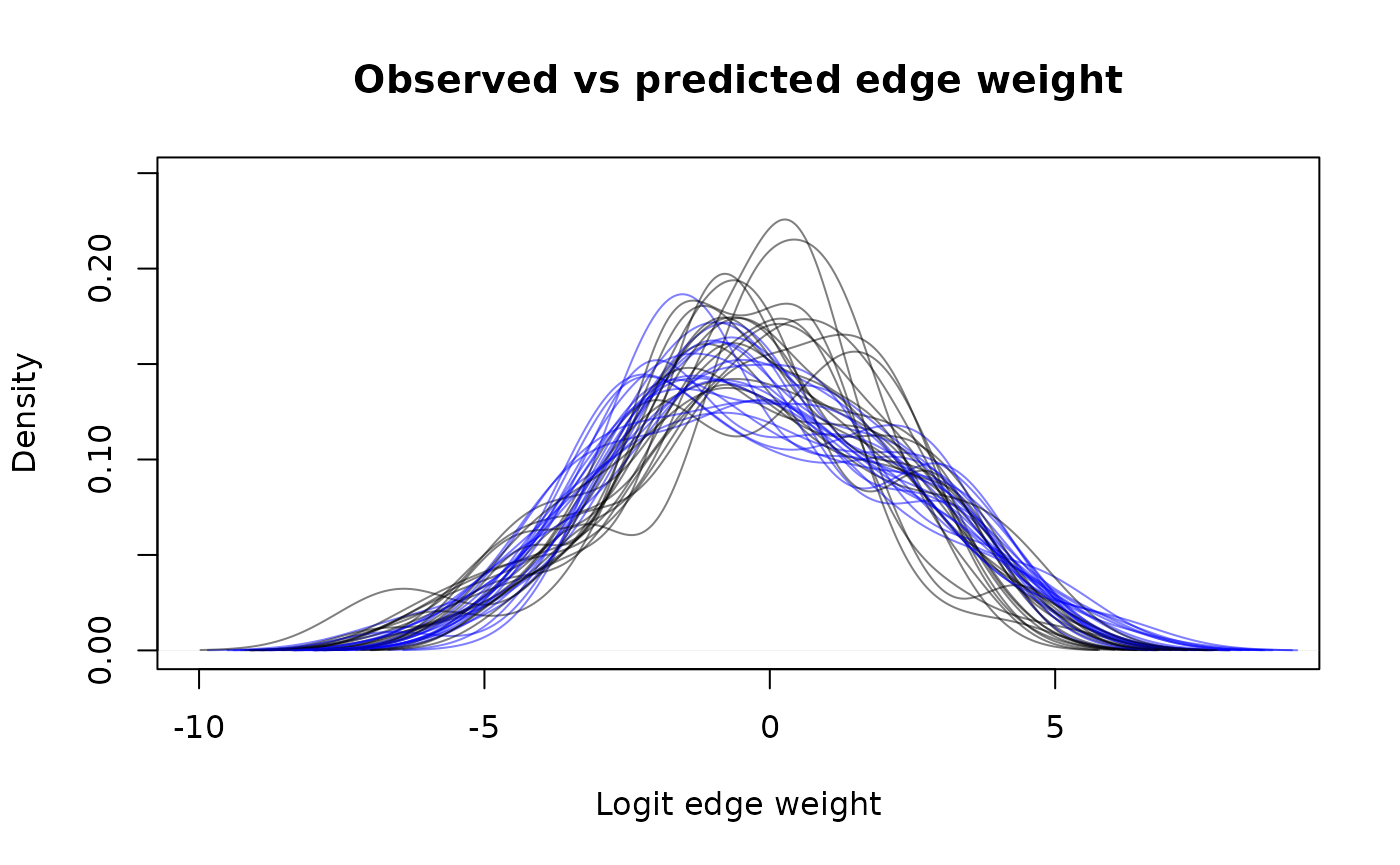
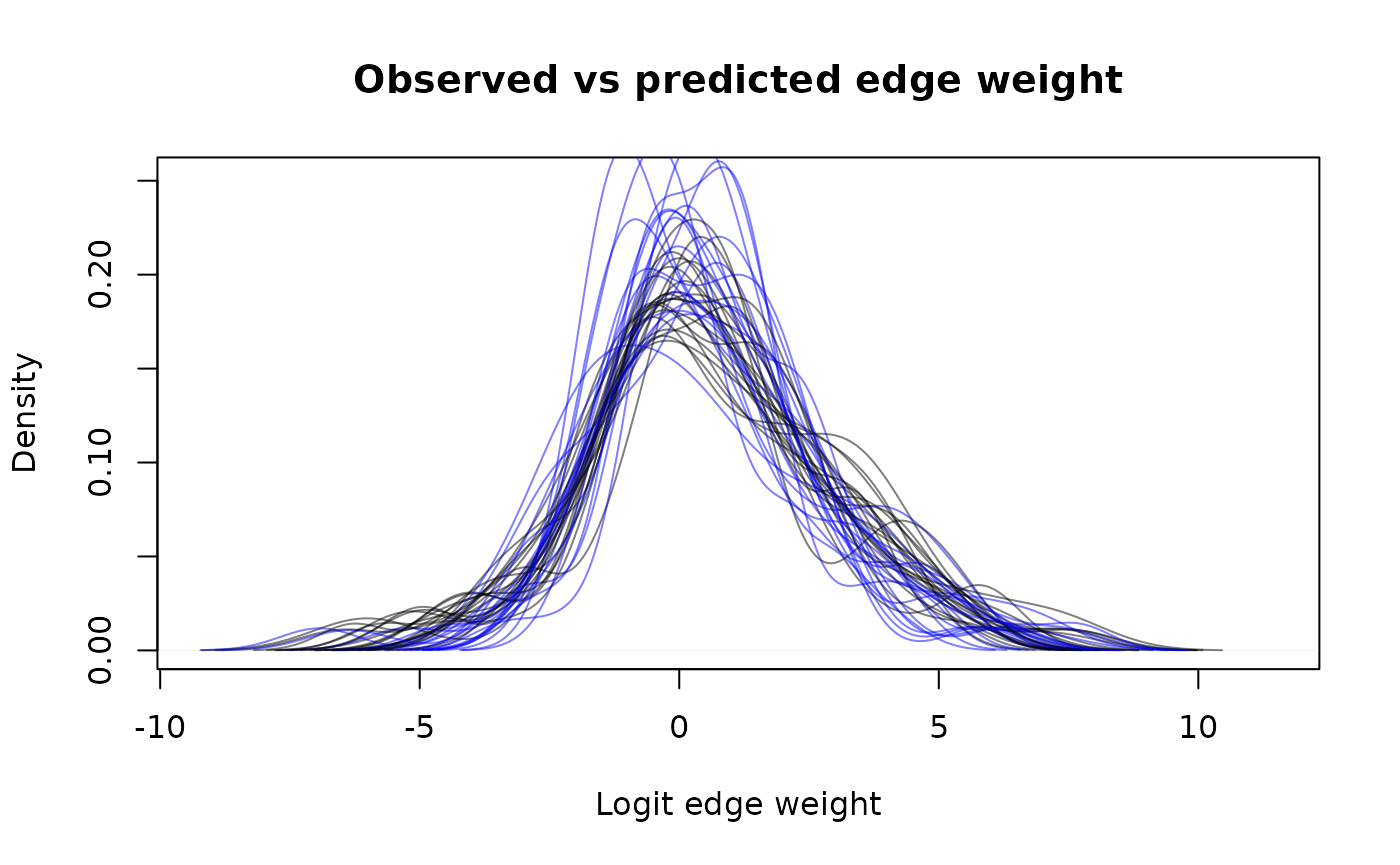
Built site for bisonR: 0.1.0@6470467

diff --git a/articles/getting_started.html b/articles/getting_started.html
@@ -123,15 +123,15 @@
 <p>We will also use the <code><a href="../reference/simulate_edge_model.html">simulate_edge_model()</a></code> function from <code>bisonR</code> to simulate some observation data. This dataframe is an example of the format that bisonR uses. Each row corresponds to an observation (such as an association within a sampling period of a dyad or a count of interactions between a dyad), but additional observation-level, dyad-level, or node-level factors can be included.</p>
 <div class="sourceCode" id="cb3"><pre class="downlit sourceCode r">
 <code class="sourceCode R"><span class="va">sim_data</span> <span class="op">&lt;-</span> <span class="fu"><a href="../reference/simulate_edge_model.html">simulate_edge_model</a></span><span class="op">(</span><span class="st">"binary"</span>, aggregated <span class="op">=</span> <span class="cn">FALSE</span><span class="op">)</span>
-<span class="va">df</span> <span class="op">&lt;-</span> <span class="va">sim_data</span>
+<span class="va">df</span> <span class="op">&lt;-</span> <span class="va">sim_data</span><span class="op">$</span><span class="va">df_sim</span>
 <span class="fu"><a href="https://rdrr.io/r/utils/head.html" class="external-link">head</a></span><span class="op">(</span><span class="va">df</span><span class="op">)</span>
 <span class="co">#&gt;   event node_1_id node_2_id  age_diff    age_1    age_2 location duration</span>
-<span class="co">#&gt; 1     0         1         2 0.6957874 20.66536 19.96957        3        1</span>
-<span class="co">#&gt; 2     0         1         2 0.6957874 20.66536 19.96957        5        1</span>
-<span class="co">#&gt; 3     0         1         2 0.6957874 20.66536 19.96957        2        1</span>
-<span class="co">#&gt; 4     0         1         2 0.6957874 20.66536 19.96957        2        1</span>
-<span class="co">#&gt; 5     0         1         2 0.6957874 20.66536 19.96957        4        1</span>
-<span class="co">#&gt; 6     0         1         2 0.6957874 20.66536 19.96957        5        1</span></code></pre></div>
+<span class="co">#&gt; 1     0         1         2 -1.886396 20.71172 22.59812        1        1</span>
+<span class="co">#&gt; 2     0         1         2 -1.886396 20.71172 22.59812        2        1</span>
+<span class="co">#&gt; 3     0         1         2 -1.886396 20.71172 22.59812        4        1</span>
+<span class="co">#&gt; 4     0         1         3 -1.449398 20.71172 22.16112        4        1</span>
+<span class="co">#&gt; 5     0         1         3 -1.449398 20.71172 22.16112        3        1</span>
+<span class="co">#&gt; 6     0         1         3 -1.449398 20.71172 22.16112        2        1</span></code></pre></div>
 </div>
 <div class="section level2">
 <h2 id="edge-models">Edge Models<a class="anchor" aria-label="anchor" href="#edge-models"></a>
@@ -142,7 +142,7 @@
 <code class="sourceCode R"><span class="va">priors</span> <span class="op">&lt;-</span> <span class="fu"><a href="../reference/get_default_priors.html">get_default_priors</a></span><span class="op">(</span><span class="st">"binary"</span><span class="op">)</span>
 <span class="va">priors</span>
 <span class="co">#&gt; $fixed</span>
-<span class="co">#&gt; [1] "normal(0, 1)"</span>
+<span class="co">#&gt; [1] "normal(0, 2.5)"</span>
 <span class="co">#&gt; </span>
 <span class="co">#&gt; $random_mean</span>
 <span class="co">#&gt; [1] "normal(0, 1)"</span>
@@ -151,10 +151,10 @@
 <span class="co">#&gt; [1] "half-normal(1)"</span></code></pre></div>
 <p>This list shows the priors set on the “fixed effect” parameters: the edge weights and any additional fixed effects included in the edge weight model; and the “random effect” parameters: any additional random effects included in the edge weight model. Imagine we decide that a normal distribution with mean zero and standard deviation 1 is not appropriate for the fixed effects, and we’d prefer a standard deviation of 2, we can change this using the following code:</p>
 <div class="sourceCode" id="cb5"><pre class="downlit sourceCode r">
-<code class="sourceCode R"><span class="va">priors</span><span class="op">$</span><span class="va">fixed</span> <span class="op">&lt;-</span> <span class="st">"normal(0, 2)"</span>
+<code class="sourceCode R"><span class="va">priors</span><span class="op">$</span><span class="va">fixed</span> <span class="op">&lt;-</span> <span class="st">"normal(0, 2.5)"</span>
 <span class="va">priors</span>
 <span class="co">#&gt; $fixed</span>
-<span class="co">#&gt; [1] "normal(0, 2)"</span>
+<span class="co">#&gt; [1] "normal(0, 2.5)"</span>
 <span class="co">#&gt; </span>
 <span class="co">#&gt; $random_mean</span>
 <span class="co">#&gt; [1] "normal(0, 1)"</span>
@@ -165,17 +165,22 @@
 <p>In bisonR, the left hand side of the <code>~</code> describes the sampling data, and uses the <code>(event | duration)</code> notation. In this notation, <code>event</code> corresponds to the name of the column in the dataframe that represents the measure of social events, such as 1 and 0 in the binary model, or frequencies 0, 1, 2, … in the count model. If using an unaggregated dataframe, the <code>duration</code> corresponds to the durations of each observation. In our case this is fixed, but this will depend on the data at hand.</p>
 <p>The right hand side of the <code>~</code> describes the predictors that are associated with social events. In the standard BISoN model this is primarily the edge weight that we use to build the network, but this can also include additional effects such as age, sex, or even observation-level factors such as location, time of day, or weather, to name a few. Including additional effects will change the interpretation of edge weights, but could be useful if interested in the social network once some factors have been controlled for. <em>Note</em> the edge weights don’t need to be included, and you could use bisonR to estimate generative effects in a network. In this example we’ll keep things simple and just use edge weight as the only predictor. This is done using the <code>dyad(node_1_id, node_2_id)</code> notation. <code>node_1_id</code> and <code>node_2_id</code> represent the nodes corresponding to each individual in the network, and need to be stored as factors in the dataframe. They don’t need to be IDs, and could be individual names, as long as they’re stored as factors. Now we understand the basics of the formula notation, we can now fit the edge weight model:</p>
 <div class="sourceCode" id="cb6"><pre class="downlit sourceCode r">
-<code class="sourceCode R"><span class="va">fit_edge</span> <span class="op">&lt;-</span> <span class="fu"><a href="../reference/edge_model.html">edge_model</a></span><span class="op">(</span><span class="op">(</span><span class="va">event</span> <span class="op">|</span> <span class="va">duration</span><span class="op">)</span> <span class="op">~</span> <span class="fu">dyad</span><span class="op">(</span><span class="va">node_1_id</span>, <span class="va">node_2_id</span><span class="op">)</span>, data<span class="op">=</span><span class="va">df</span>, data_type<span class="op">=</span><span class="st">"binary"</span>, priors<span class="op">=</span><span class="va">priors</span><span class="op">)</span>
+<code class="sourceCode R"><span class="va">fit_edge</span> <span class="op">&lt;-</span> <span class="fu"><a href="../reference/edge_model.html">edge_model</a></span><span class="op">(</span>
+  <span class="op">(</span><span class="va">event</span> <span class="op">|</span> <span class="va">duration</span><span class="op">)</span> <span class="op">~</span> <span class="fu">dyad</span><span class="op">(</span><span class="va">node_1_id</span>, <span class="va">node_2_id</span><span class="op">)</span>, 
+  data<span class="op">=</span><span class="va">df</span>, 
+  data_type<span class="op">=</span><span class="st">"binary"</span>, 
+  priors<span class="op">=</span><span class="va">priors</span>
+<span class="op">)</span>
 <span class="co">#&gt; Running MCMC with 4 parallel chains...</span>
 <span class="co">#&gt; </span>
-<span class="co">#&gt; Chain 1 finished in 2.5 seconds.</span>
-<span class="co">#&gt; Chain 3 finished in 2.5 seconds.</span>
-<span class="co">#&gt; Chain 4 finished in 2.4 seconds.</span>
-<span class="co">#&gt; Chain 2 finished in 2.6 seconds.</span>
+<span class="co">#&gt; Chain 1 finished in 2.2 seconds.</span>
+<span class="co">#&gt; Chain 2 finished in 2.2 seconds.</span>
+<span class="co">#&gt; Chain 3 finished in 2.2 seconds.</span>
+<span class="co">#&gt; Chain 4 finished in 2.2 seconds.</span>
 <span class="co">#&gt; </span>
 <span class="co">#&gt; All 4 chains finished successfully.</span>
-<span class="co">#&gt; Mean chain execution time: 2.5 seconds.</span>
-<span class="co">#&gt; Total execution time: 2.8 seconds.</span></code></pre></div>
+<span class="co">#&gt; Mean chain execution time: 2.2 seconds.</span>
+<span class="co">#&gt; Total execution time: 2.4 seconds.</span></code></pre></div>
 <p>Depending on your dataset this can take anywhere between a few tenths of a second and several hours. In particular if you have a large dataset and no observation-level predictors, it’s probably a good idea to use the aggregated version of the model where all observations per dyad are collapsed to a single row. This will speed up model fitting considerably.</p>
 <p>Once the model has fitted, we need to check that the MCMC algorithm has behaved correctly. Usually if there’s a major problem, the <code><a href="../reference/edge_model.html">edge_model()</a></code> function itself will have triggered warning messages above. But even if everything is silent, it’s still worth checking the traceplots to check the MCMC chains have converged. The chains should be well-mixed and look something like a fuzzy caterpillar. We can check for this using the <code><a href="../reference/plot_trace.html">plot_trace()</a></code> function:</p>
 <div class="sourceCode" id="cb7"><pre class="downlit sourceCode r">
@@ -196,51 +201,51 @@
 <span class="co">#&gt; Directed: FALSE</span>
 <span class="co">#&gt; === Edge list summary ===</span>
 <span class="co">#&gt;          median     5%    95%</span>
-<span class="co">#&gt; 1 &lt;-&gt; 2  -1.989 -3.567 -0.805</span>
-<span class="co">#&gt; 1 &lt;-&gt; 3   2.051  1.058  3.372</span>
-<span class="co">#&gt; 2 &lt;-&gt; 3   1.664 -0.432  4.209</span>
-<span class="co">#&gt; 1 &lt;-&gt; 4  -2.171 -3.810 -0.954</span>
-<span class="co">#&gt; 2 &lt;-&gt; 4  -1.185 -3.804  1.225</span>
-<span class="co">#&gt; 3 &lt;-&gt; 4  -2.849 -5.045 -1.283</span>
-<span class="co">#&gt; 1 &lt;-&gt; 5   1.037 -0.157  2.371</span>
-<span class="co">#&gt; 2 &lt;-&gt; 5  -1.654 -4.223  0.348</span>
-<span class="co">#&gt; 3 &lt;-&gt; 5   0.022 -1.596  1.672</span>
-<span class="co">#&gt; 4 &lt;-&gt; 5   3.321  1.934  5.365</span>
-<span class="co">#&gt; 1 &lt;-&gt; 6  -2.377 -4.809 -0.576</span>
-<span class="co">#&gt; 2 &lt;-&gt; 6  -2.788 -4.976 -1.177</span>
-<span class="co">#&gt; 3 &lt;-&gt; 6  -1.124 -3.940  1.337</span>
-<span class="co">#&gt; 4 &lt;-&gt; 6  -1.635 -4.145  0.459</span>
-<span class="co">#&gt; 5 &lt;-&gt; 6  -3.212 -5.200 -1.672</span>
-<span class="co">#&gt; 1 &lt;-&gt; 7  -3.169 -5.324 -1.560</span>
-<span class="co">#&gt; 2 &lt;-&gt; 7  -2.469 -4.769 -0.801</span>
-<span class="co">#&gt; 3 &lt;-&gt; 7  -3.151 -5.198 -1.734</span>
-<span class="co">#&gt; 4 &lt;-&gt; 7  -1.198 -2.143 -0.364</span>
-<span class="co">#&gt; 5 &lt;-&gt; 7  -3.383 -5.396 -1.886</span>
-<span class="co">#&gt; 6 &lt;-&gt; 7  -0.563 -1.630  0.472</span>
-<span class="co">#&gt; 1 &lt;-&gt; 8   1.810  0.554  3.338</span>
-<span class="co">#&gt; 2 &lt;-&gt; 8   1.819  0.464  3.627</span>
-<span class="co">#&gt; 3 &lt;-&gt; 8  -1.805 -3.425 -0.528</span>
-<span class="co">#&gt; 4 &lt;-&gt; 8   0.397 -0.992  1.866</span>
-<span class="co">#&gt; 5 &lt;-&gt; 8  -1.786 -3.049 -0.805</span>
-<span class="co">#&gt; 6 &lt;-&gt; 8   3.221  1.772  5.287</span>
-<span class="co">#&gt; 7 &lt;-&gt; 8   2.845  1.289  5.023</span>
-<span class="co">#&gt; 1 &lt;-&gt; 9  -0.128 -0.982  0.717</span>
-<span class="co">#&gt; 2 &lt;-&gt; 9   0.466 -0.693  1.687</span>
-<span class="co">#&gt; 3 &lt;-&gt; 9  -2.103 -3.688 -0.898</span>
-<span class="co">#&gt; 4 &lt;-&gt; 9   2.560  1.437  4.054</span>
-<span class="co">#&gt; 5 &lt;-&gt; 9  -0.221 -1.302  0.851</span>
-<span class="co">#&gt; 6 &lt;-&gt; 9   3.270  1.793  5.253</span>
-<span class="co">#&gt; 7 &lt;-&gt; 9   2.817  1.243  4.989</span>
-<span class="co">#&gt; 8 &lt;-&gt; 9  -0.756 -1.642  0.057</span>
-<span class="co">#&gt; 1 &lt;-&gt; 10  0.779 -0.029  1.607</span>
-<span class="co">#&gt; 2 &lt;-&gt; 10  0.677 -0.186  1.627</span>
-<span class="co">#&gt; 3 &lt;-&gt; 10 -0.530 -1.363  0.229</span>
-<span class="co">#&gt; 4 &lt;-&gt; 10  2.826  1.237  4.992</span>
-<span class="co">#&gt; 5 &lt;-&gt; 10 -1.668 -2.728 -0.793</span>
-<span class="co">#&gt; 6 &lt;-&gt; 10  3.336  1.851  5.316</span>
-<span class="co">#&gt; 7 &lt;-&gt; 10  3.220  1.755  5.352</span>
-<span class="co">#&gt; 8 &lt;-&gt; 10 -0.646 -1.828  0.429</span>
-<span class="co">#&gt; 9 &lt;-&gt; 10 -1.657 -4.259  0.504</span></code></pre></div>
+<span class="co">#&gt; 1 &lt;-&gt; 2  -2.397 -5.439 -0.208</span>
+<span class="co">#&gt; 1 &lt;-&gt; 3  -2.155 -3.454 -1.126</span>
+<span class="co">#&gt; 2 &lt;-&gt; 3  -0.703 -1.761  0.299</span>
+<span class="co">#&gt; 1 &lt;-&gt; 4   1.091  0.183  2.126</span>
+<span class="co">#&gt; 2 &lt;-&gt; 4   1.589 -1.391  5.012</span>
+<span class="co">#&gt; 3 &lt;-&gt; 4   2.116 -0.299  5.180</span>
+<span class="co">#&gt; 1 &lt;-&gt; 5  -1.297 -3.186  0.251</span>
+<span class="co">#&gt; 2 &lt;-&gt; 5  -0.770 -1.727  0.105</span>
+<span class="co">#&gt; 3 &lt;-&gt; 5  -0.669 -2.130  0.649</span>
+<span class="co">#&gt; 4 &lt;-&gt; 5  -0.220 -1.335  0.890</span>
+<span class="co">#&gt; 1 &lt;-&gt; 6   0.630 -1.218  2.703</span>
+<span class="co">#&gt; 2 &lt;-&gt; 6   2.424  0.203  5.518</span>
+<span class="co">#&gt; 3 &lt;-&gt; 6   2.606  0.558  5.657</span>
+<span class="co">#&gt; 4 &lt;-&gt; 6  -0.781 -1.699  0.067</span>
+<span class="co">#&gt; 5 &lt;-&gt; 6   3.855  2.102  6.439</span>
+<span class="co">#&gt; 1 &lt;-&gt; 7  -1.566 -2.849 -0.493</span>
+<span class="co">#&gt; 2 &lt;-&gt; 7   0.287 -0.934  1.532</span>
+<span class="co">#&gt; 3 &lt;-&gt; 7  -0.910 -1.977 -0.019</span>
+<span class="co">#&gt; 4 &lt;-&gt; 7   1.104  0.316  1.955</span>
+<span class="co">#&gt; 5 &lt;-&gt; 7   1.306 -0.245  3.260</span>
+<span class="co">#&gt; 6 &lt;-&gt; 7  -0.408 -1.496  0.621</span>
+<span class="co">#&gt; 1 &lt;-&gt; 8  -3.867 -6.343 -2.130</span>
+<span class="co">#&gt; 2 &lt;-&gt; 8   0.409 -0.649  1.543</span>
+<span class="co">#&gt; 3 &lt;-&gt; 8   0.000 -1.644  1.640</span>
+<span class="co">#&gt; 4 &lt;-&gt; 8  -1.084 -2.025 -0.280</span>
+<span class="co">#&gt; 5 &lt;-&gt; 8   3.470  1.666  6.086</span>
+<span class="co">#&gt; 6 &lt;-&gt; 8   1.220  0.044  2.654</span>
+<span class="co">#&gt; 7 &lt;-&gt; 8  -2.371 -5.342 -0.166</span>
+<span class="co">#&gt; 1 &lt;-&gt; 9   3.645  1.846  6.276</span>
+<span class="co">#&gt; 2 &lt;-&gt; 9   2.744  1.542  4.479</span>
+<span class="co">#&gt; 3 &lt;-&gt; 9   3.657  1.908  6.244</span>
+<span class="co">#&gt; 4 &lt;-&gt; 9   3.384  1.563  6.145</span>
+<span class="co">#&gt; 5 &lt;-&gt; 9   3.378  1.621  6.021</span>
+<span class="co">#&gt; 6 &lt;-&gt; 9   1.532 -1.317  4.966</span>
+<span class="co">#&gt; 7 &lt;-&gt; 9  -0.010 -1.666  1.760</span>
+<span class="co">#&gt; 8 &lt;-&gt; 9   1.558 -1.180  4.780</span>
+<span class="co">#&gt; 1 &lt;-&gt; 10  0.403 -0.351  1.157</span>
+<span class="co">#&gt; 2 &lt;-&gt; 10  0.206 -0.537  0.953</span>
+<span class="co">#&gt; 3 &lt;-&gt; 10  1.432  0.515  2.546</span>
+<span class="co">#&gt; 4 &lt;-&gt; 10 -0.194 -0.923  0.540</span>
+<span class="co">#&gt; 5 &lt;-&gt; 10  1.745  0.660  3.126</span>
+<span class="co">#&gt; 6 &lt;-&gt; 10  0.901 -0.401  2.384</span>
+<span class="co">#&gt; 7 &lt;-&gt; 10 -0.589 -1.549  0.285</span>
+<span class="co">#&gt; 8 &lt;-&gt; 10  2.604  0.470  5.549</span>
+<span class="co">#&gt; 9 &lt;-&gt; 10 -2.453 -4.241 -1.212</span></code></pre></div>
 <p>It can be hard to get an intuitive idea for what’s going on looking only at a summary table, so this is where it can be useful to visualise the network too. The <code><a href="../reference/plot_network.html">plot_network()</a></code> function does this for BISoN edge weight models, where uncertainty is shown on edge weights. Uncertainty is visualised by showing the lower and upper bounds as overlapping edges in the network.</p>
 <div class="sourceCode" id="cb10"><pre class="downlit sourceCode r">
 <code class="sourceCode R"><span class="fu"><a href="../reference/plot_network.html">plot_network</a></span><span class="op">(</span><span class="va">fit_edge</span>, lwd<span class="op">=</span><span class="fl">5</span><span class="op">)</span></code></pre></div>
@@ -253,7 +258,7 @@
 <p>Dyadic regression is where dyadic network properties (usually edge weight) are regressed against dyad-level properties. In our case we’ll be regressing edge weight against difference in age, to test the hypothesis that differences in age drive social connections. Just like edge weight models, we need to set priors, and this can be done in much the same way as last time:</p>
 <div class="sourceCode" id="cb11"><pre class="downlit sourceCode r">
 <code class="sourceCode R"><span class="va">priors</span> <span class="op">&lt;-</span> <span class="fu"><a href="../reference/get_default_priors.html">get_default_priors</a></span><span class="op">(</span><span class="st">"dyadic_regression"</span><span class="op">)</span>
-<span class="va">priors</span><span class="op">$</span><span class="va">fixed</span> <span class="op">&lt;-</span> <span class="st">"normal(0, 2.5)"</span>
+<span class="va">priors</span><span class="op">$</span><span class="va">error</span> <span class="op">&lt;-</span> <span class="st">"half-normal(2.5)"</span>
 <span class="va">priors</span>
 <span class="co">#&gt; $fixed</span>
 <span class="co">#&gt; [1] "normal(0, 2.5)"</span>
@@ -268,7 +273,7 @@
 <span class="co">#&gt; [1] "half-normal(1)"</span>
 <span class="co">#&gt; </span>
 <span class="co">#&gt; $error</span>
-<span class="co">#&gt; [1] "half-normal(1)"</span></code></pre></div>
+<span class="co">#&gt; [1] "half-normal(2.5)"</span></code></pre></div>
 <p>The dataframe for a dyadic regression will be different to the one used to fit an edge weight model. In this case we need a row for each dyad, and we need to index this using the same factor-typed node variables with the same levels as were used when fitting the edge weight model. In our example we have all the necessary data in the original dataframe, and we can extract it using dplyr. The <code><a href="../reference/dyadic_regression.html">dyadic_regression()</a></code> function uses a similar formula syntax as the <code>edge_model</code> function. In our example we use the edge weight, described by <code>dyad(node_1_id, node_2_id)</code>, on the left hand side as the response variable. We use the <code>age_diff</code> variable from the dataframe as the single fixed effect, but additional fixed and random effects can also be included. <em>Note</em> by default the dyadic regression function uses multi-membership effects, denoted by the argument <code>mm</code>, to capture non-independence due to nodes in the regression. This is a vital feature for some analyses to prevent spurious conclusions, but for the sake of our simulated data we don’t need to include this effect here.</p>
 <div class="sourceCode" id="cb12"><pre class="downlit sourceCode r">
 <code class="sourceCode R"><span class="va">df_dyadic</span> <span class="op">&lt;-</span> <span class="va">df</span> <span class="op"><a href="https://magrittr.tidyverse.org/reference/pipe.html" class="external-link">%&gt;%</a></span>
@@ -293,22 +298,22 @@
 <span class="co">#&gt; Chain 3 Iteration: 1001 / 2000 [ 50%]  (Sampling) </span>
 <span class="co">#&gt; Chain 4 Iteration: 1000 / 2000 [ 50%]  (Warmup) </span>
 <span class="co">#&gt; Chain 4 Iteration: 1001 / 2000 [ 50%]  (Sampling) </span>
-<span class="co">#&gt; Chain 1 Iteration: 1500 / 2000 [ 75%]  (Sampling) </span>
-<span class="co">#&gt; Chain 3 Iteration: 1500 / 2000 [ 75%]  (Sampling) </span>
-<span class="co">#&gt; Chain 2 Iteration: 1500 / 2000 [ 75%]  (Sampling) </span>
 <span class="co">#&gt; Chain 4 Iteration: 1500 / 2000 [ 75%]  (Sampling) </span>
+<span class="co">#&gt; Chain 1 Iteration: 1500 / 2000 [ 75%]  (Sampling) </span>
+<span class="co">#&gt; Chain 2 Iteration: 1500 / 2000 [ 75%]  (Sampling) </span>
+<span class="co">#&gt; Chain 3 Iteration: 1500 / 2000 [ 75%]  (Sampling) </span>
 <span class="co">#&gt; Chain 1 Iteration: 2000 / 2000 [100%]  (Sampling) </span>
-<span class="co">#&gt; Chain 1 finished in 3.0 seconds.</span>
 <span class="co">#&gt; Chain 4 Iteration: 2000 / 2000 [100%]  (Sampling) </span>
-<span class="co">#&gt; Chain 4 finished in 3.1 seconds.</span>
+<span class="co">#&gt; Chain 1 finished in 2.4 seconds.</span>
+<span class="co">#&gt; Chain 4 finished in 2.3 seconds.</span>
 <span class="co">#&gt; Chain 2 Iteration: 2000 / 2000 [100%]  (Sampling) </span>
+<span class="co">#&gt; Chain 2 finished in 2.5 seconds.</span>
 <span class="co">#&gt; Chain 3 Iteration: 2000 / 2000 [100%]  (Sampling) </span>
-<span class="co">#&gt; Chain 2 finished in 3.3 seconds.</span>
-<span class="co">#&gt; Chain 3 finished in 3.2 seconds.</span>
+<span class="co">#&gt; Chain 3 finished in 2.5 seconds.</span>
 <span class="co">#&gt; </span>
 <span class="co">#&gt; All 4 chains finished successfully.</span>
-<span class="co">#&gt; Mean chain execution time: 3.1 seconds.</span>
-<span class="co">#&gt; Total execution time: 3.3 seconds.</span></code></pre></div>
+<span class="co">#&gt; Mean chain execution time: 2.5 seconds.</span>
+<span class="co">#&gt; Total execution time: 2.7 seconds.</span></code></pre></div>
 <p>Like last time we want to check that our model has fit properly and makes good predictions. This can be done in exactly the same way as last time:</p>
 <div class="sourceCode" id="cb13"><pre class="downlit sourceCode r">
 <code class="sourceCode R"><span class="fu"><a href="../reference/plot_trace.html">plot_trace</a></span><span class="op">(</span><span class="va">fit_dyadic</span><span class="op">)</span></code></pre></div>
@@ -320,18 +325,12 @@
 <div class="sourceCode" id="cb15"><pre class="downlit sourceCode r">
 <code class="sourceCode R"><span class="fu"><a href="https://mc-stan.org/cmdstanr/reference/fit-method-summary.html" class="external-link">summary</a></span><span class="op">(</span><span class="va">fit_dyadic</span><span class="op">)</span>
 <span class="co">#&gt; === Fitted dyadic regression model ===</span>
-<span class="co">#&gt; Formula: ~</span>
-<span class="co">#&gt; Number of dyads: 45</span>
-<span class="co">#&gt; === Coefficient summary === === Fitted dyadic regression model ===</span>
-<span class="co">#&gt; Formula: dyad(node_1_id, node_2_id)</span>
-<span class="co">#&gt; Number of dyads: 45</span>
-<span class="co">#&gt; === Coefficient summary === === Fitted dyadic regression model ===</span>
-<span class="co">#&gt; Formula: age_diff</span>
+<span class="co">#&gt; Formula: dyad(node_1_id, node_2_id) ~ age_diff</span>
 <span class="co">#&gt; Number of dyads: 45</span>
 <span class="co">#&gt; === Coefficient summary ===                </span>
-<span class="co">#&gt; variable            50%     5%    95%</span>
-<span class="co">#&gt;   intercept      -0.270 -0.502 -0.036</span>
-<span class="co">#&gt;   fixed_age_diff  0.551  0.480  0.627</span></code></pre></div>
+<span class="co">#&gt; variable           50%     5%   95%</span>
+<span class="co">#&gt;   intercept      0.260 -0.076 0.599</span>
+<span class="co">#&gt;   fixed_age_diff 0.606  0.434 0.788</span></code></pre></div>
 <p>Now we’ve seen how to fit a dyadic regression, the next common type of analysis is nodal regression.</p>
 </div>
 <div class="section level2">
@@ -347,20 +346,20 @@
   <span class="fu"><a href="https://dplyr.tidyverse.org/reference/distinct.html" class="external-link">distinct</a></span><span class="op">(</span><span class="va">node_id</span>, <span class="va">age</span><span class="op">)</span>
 <span class="va">df_nodal</span>
 <span class="co">#&gt;    node_id      age</span>
-<span class="co">#&gt; 1        1 20.66536</span>
-<span class="co">#&gt; 2        2 19.96957</span>
-<span class="co">#&gt; 3        3 17.54983</span>
-<span class="co">#&gt; 4        4 22.37322</span>
-<span class="co">#&gt; 5        5 17.40647</span>
-<span class="co">#&gt; 6        6 23.98468</span>
-<span class="co">#&gt; 7        7 24.76948</span>
-<span class="co">#&gt; 8        8 18.66151</span>
-<span class="co">#&gt; 9        9 18.99383</span>
-<span class="co">#&gt; 10      10 18.98685</span></code></pre></div>
+<span class="co">#&gt; 1        1 20.71172</span>
+<span class="co">#&gt; 2        2 22.59812</span>
+<span class="co">#&gt; 3        3 22.16112</span>
+<span class="co">#&gt; 4        4 21.56508</span>
+<span class="co">#&gt; 5        5 22.95824</span>
+<span class="co">#&gt; 6        6 21.53649</span>
+<span class="co">#&gt; 7        7 22.03434</span>
+<span class="co">#&gt; 8        8 22.57527</span>
+<span class="co">#&gt; 9        9 17.58951</span>
+<span class="co">#&gt; 10      10 21.91957</span></code></pre></div>
 <p>Priors can be set in the exact same way as for the <code><a href="../reference/dyadic_regression.html">dyadic_regression()</a></code> function:</p>
 <div class="sourceCode" id="cb17"><pre class="downlit sourceCode r">
 <code class="sourceCode R"><span class="va">priors</span> <span class="op">&lt;-</span> <span class="fu"><a href="../reference/get_default_priors.html">get_default_priors</a></span><span class="op">(</span><span class="st">"nodal_regression"</span><span class="op">)</span>
-<span class="va">priors</span><span class="op">$</span><span class="va">fixed</span> <span class="op">&lt;-</span> <span class="st">"normal(0, 2.5)"</span>
+<span class="va">priors</span><span class="op">$</span><span class="va">error</span> <span class="op">&lt;-</span> <span class="st">"half-normal(2.5)"</span>
 <span class="va">priors</span>
 <span class="co">#&gt; $fixed</span>
 <span class="co">#&gt; [1] "normal(0, 2.5)"</span>
@@ -372,49 +371,61 @@
 <span class="co">#&gt; [1] "half-normal(1)"</span>
 <span class="co">#&gt; </span>
 <span class="co">#&gt; $error</span>
-<span class="co">#&gt; [1] "half-normal(1)"</span></code></pre></div>
+<span class="co">#&gt; [1] "half-normal(2.5)"</span></code></pre></div>
 <p>The formula syntax for nodal regression is very similar to that of the dyadic regression, but because this analysis is at the level of the node, not the dyad, we no longer need a <code>dyad(node_1_id, node_2_id)</code> term. Instead we want to use a node-level network metric to characterise node positions within the network, while maintaining uncertainty from the edge weights. <code>bisonR</code> can handle all of this automatically, you simply need to specify a network metric to use. In our case we’ll use the classic measure of centrality <code><a href="https://rdrr.io/pkg/igraph/man/strength.html" class="external-link">strength()</a></code>, but many others are available. See the documentation here for further details.</p>
 <div class="sourceCode" id="cb18"><pre class="downlit sourceCode r">
 <code class="sourceCode R"><span class="va">fit_nodal</span> <span class="op">&lt;-</span> <span class="fu"><a href="../reference/nodal_regression.html">nodal_regression</a></span><span class="op">(</span><span class="fu"><a href="https://rdrr.io/pkg/igraph/man/strength.html" class="external-link">strength</a></span><span class="op">(</span><span class="va">node_id</span><span class="op">)</span> <span class="op">~</span> <span class="va">age</span>, <span class="va">fit_edge</span>, <span class="va">df_nodal</span>, priors<span class="op">=</span><span class="va">priors</span><span class="op">)</span>
 <span class="co">#&gt; Running MCMC with 4 parallel chains...</span>
 <span class="co">#&gt; </span>
-<span class="co">#&gt; Chain 1 Iteration:    1 / 2000 [  0%]  (Warmup)</span>
-<span class="co">#&gt; Chain 1 Informational Message: The current Metropolis proposal is about to be rejected because of the following issue:</span>
-<span class="co">#&gt; Chain 1 Exception: multi_normal_lpdf: LDLT_Factor of covariance parameter is not positive definite.  last conditional variance is -nan. (in '/tmp/RtmpahHcqS/model-41cc68c62e8a.stan', line 34, column 2 to column 94)</span>
-<span class="co">#&gt; Chain 1 If this warning occurs sporadically, such as for highly constrained variable types like covariance matrices, then the sampler is fine,</span>
-<span class="co">#&gt; Chain 1 but if this warning occurs often then your model may be either severely ill-conditioned or misspecified.</span>
-<span class="co">#&gt; Chain 1</span>
-<span class="co">#&gt; Chain 2 Iteration:    1 / 2000 [  0%]  (Warmup) </span>
-<span class="co">#&gt; Chain 3 Iteration:    1 / 2000 [  0%]  (Warmup) </span>
+<span class="co">#&gt; Chain 1 Iteration:    1 / 2000 [  0%]  (Warmup) </span>
+<span class="co">#&gt; Chain 2 Iteration:    1 / 2000 [  0%]  (Warmup)</span>
+<span class="co">#&gt; Chain 2 Informational Message: The current Metropolis proposal is about to be rejected because of the following issue:</span>
+<span class="co">#&gt; Chain 2 Exception: multi_normal_lpdf: LDLT_Factor of covariance parameter is not positive definite.  last conditional variance is -9.71445e-17. (in '/tmp/RtmphQAGqX/model-412f4cf6d5ac.stan', line 34, column 2 to column 94)</span>
+<span class="co">#&gt; Chain 2 If this warning occurs sporadically, such as for highly constrained variable types like covariance matrices, then the sampler is fine,</span>
+<span class="co">#&gt; Chain 2 but if this warning occurs often then your model may be either severely ill-conditioned or misspecified.</span>
+<span class="co">#&gt; Chain 2</span>
+<span class="co">#&gt; Chain 2 Informational Message: The current Metropolis proposal is about to be rejected because of the following issue:</span>
+<span class="co">#&gt; Chain 2 Exception: multi_normal_lpdf: LDLT_Factor of covariance parameter is not positive definite.  last conditional variance is -9.71445e-17. (in '/tmp/RtmphQAGqX/model-412f4cf6d5ac.stan', line 34, column 2 to column 94)</span>
+<span class="co">#&gt; Chain 2 If this warning occurs sporadically, such as for highly constrained variable types like covariance matrices, then the sampler is fine,</span>
+<span class="co">#&gt; Chain 2 but if this warning occurs often then your model may be either severely ill-conditioned or misspecified.</span>
+<span class="co">#&gt; Chain 2</span>
+<span class="co">#&gt; Chain 3 Iteration:    1 / 2000 [  0%]  (Warmup)</span>
+<span class="co">#&gt; Chain 3 Informational Message: The current Metropolis proposal is about to be rejected because of the following issue:</span>
+<span class="co">#&gt; Chain 3 Exception: multi_normal_lpdf: LDLT_Factor of covariance parameter is not positive definite.  last conditional variance is -nan. (in '/tmp/RtmphQAGqX/model-412f4cf6d5ac.stan', line 34, column 2 to column 94)</span>
+<span class="co">#&gt; Chain 3 If this warning occurs sporadically, such as for highly constrained variable types like covariance matrices, then the sampler is fine,</span>
+<span class="co">#&gt; Chain 3 but if this warning occurs often then your model may be either severely ill-conditioned or misspecified.</span>
+<span class="co">#&gt; Chain 3</span>
 <span class="co">#&gt; Chain 4 Iteration:    1 / 2000 [  0%]  (Warmup) </span>
 <span class="co">#&gt; Chain 1 Iteration:  500 / 2000 [ 25%]  (Warmup) </span>
 <span class="co">#&gt; Chain 2 Iteration:  500 / 2000 [ 25%]  (Warmup) </span>
-<span class="co">#&gt; Chain 1 Iteration: 1000 / 2000 [ 50%]  (Warmup) </span>
-<span class="co">#&gt; Chain 1 Iteration: 1001 / 2000 [ 50%]  (Sampling) </span>
 <span class="co">#&gt; Chain 3 Iteration:  500 / 2000 [ 25%]  (Warmup) </span>
 <span class="co">#&gt; Chain 4 Iteration:  500 / 2000 [ 25%]  (Warmup) </span>
+<span class="co">#&gt; Chain 1 Iteration: 1000 / 2000 [ 50%]  (Warmup) </span>
+<span class="co">#&gt; Chain 1 Iteration: 1001 / 2000 [ 50%]  (Sampling) </span>
 <span class="co">#&gt; Chain 2 Iteration: 1000 / 2000 [ 50%]  (Warmup) </span>
 <span class="co">#&gt; Chain 2 Iteration: 1001 / 2000 [ 50%]  (Sampling) </span>
-<span class="co">#&gt; Chain 1 Iteration: 1500 / 2000 [ 75%]  (Sampling) </span>
 <span class="co">#&gt; Chain 3 Iteration: 1000 / 2000 [ 50%]  (Warmup) </span>
 <span class="co">#&gt; Chain 3 Iteration: 1001 / 2000 [ 50%]  (Sampling) </span>
 <span class="co">#&gt; Chain 4 Iteration: 1000 / 2000 [ 50%]  (Warmup) </span>
 <span class="co">#&gt; Chain 4 Iteration: 1001 / 2000 [ 50%]  (Sampling) </span>
+<span class="co">#&gt; Chain 1 Iteration: 1500 / 2000 [ 75%]  (Sampling) </span>
 <span class="co">#&gt; Chain 2 Iteration: 1500 / 2000 [ 75%]  (Sampling) </span>
 <span class="co">#&gt; Chain 3 Iteration: 1500 / 2000 [ 75%]  (Sampling) </span>
 <span class="co">#&gt; Chain 4 Iteration: 1500 / 2000 [ 75%]  (Sampling) </span>
+<span class="co">#&gt; Chain 3 Iteration: 2000 / 2000 [100%]  (Sampling) </span>
 <span class="co">#&gt; Chain 1 Iteration: 2000 / 2000 [100%]  (Sampling) </span>
 <span class="co">#&gt; Chain 2 Iteration: 2000 / 2000 [100%]  (Sampling) </span>
-<span class="co">#&gt; Chain 3 Iteration: 2000 / 2000 [100%]  (Sampling) </span>
 <span class="co">#&gt; Chain 4 Iteration: 2000 / 2000 [100%]  (Sampling) </span>
-<span class="co">#&gt; Chain 1 finished in 0.9 seconds.</span>
-<span class="co">#&gt; Chain 2 finished in 0.9 seconds.</span>
-<span class="co">#&gt; Chain 3 finished in 1.0 seconds.</span>
-<span class="co">#&gt; Chain 4 finished in 0.9 seconds.</span>
+<span class="co">#&gt; Chain 1 finished in 1.2 seconds.</span>
+<span class="co">#&gt; Chain 2 finished in 1.1 seconds.</span>
+<span class="co">#&gt; Chain 3 finished in 1.1 seconds.</span>
+<span class="co">#&gt; Chain 4 finished in 1.1 seconds.</span>
 <span class="co">#&gt; </span>
 <span class="co">#&gt; All 4 chains finished successfully.</span>
-<span class="co">#&gt; Mean chain execution time: 1.0 seconds.</span>
-<span class="co">#&gt; Total execution time: 1.0 seconds.</span></code></pre></div>
+<span class="co">#&gt; Mean chain execution time: 1.1 seconds.</span>
+<span class="co">#&gt; Total execution time: 1.3 seconds.</span>
+<span class="co">#&gt; Warning: 1 of 4000 (0.0%) transitions ended with a divergence.</span>
+<span class="co">#&gt; See https://mc-stan.org/misc/warnings for details.</span></code></pre></div>
 <p>Once the model has been fitted, we need to employ the same diagnostic checks as last time to ensure the model is reliable. This may seem a little tedious, and it won’t always go smoothly, but it’s a vital part of model fitting that is essential for reliable inferences, even in frequentist statistics.</p>
 <div class="sourceCode" id="cb19"><pre class="downlit sourceCode r">
 <code class="sourceCode R"><span class="fu"><a href="../reference/plot_trace.html">plot_trace</a></span><span class="op">(</span><span class="va">fit_nodal</span><span class="op">)</span></code></pre></div>
@@ -428,10 +439,10 @@
 <span class="co">#&gt; === Fitted nodal regression model ===</span>
 <span class="co">#&gt; Formula: strength(node_id) ~ age</span>
 <span class="co">#&gt; Number of nodes: 10</span>
-<span class="co">#&gt; === Coefficient summary ===        </span>
-<span class="co">#&gt; variable   50%     5%   95%</span>
-<span class="co">#&gt;     [1,] 2.712 -0.382 5.508</span>
-<span class="co">#&gt;     [2,] 0.069 -0.064 0.221</span></code></pre></div>
+<span class="co">#&gt; === Coefficient summary ===           </span>
+<span class="co">#&gt; variable       50%     5%   95%</span>
+<span class="co">#&gt;   intercept  1.073 -2.543 4.749</span>
+<span class="co">#&gt;   fixed_age -0.049 -0.221 0.120</span></code></pre></div>
 </div>
 <div class="section level2">
 <h2 id="conclusion">Conclusion<a class="anchor" aria-label="anchor" href="#conclusion"></a>
